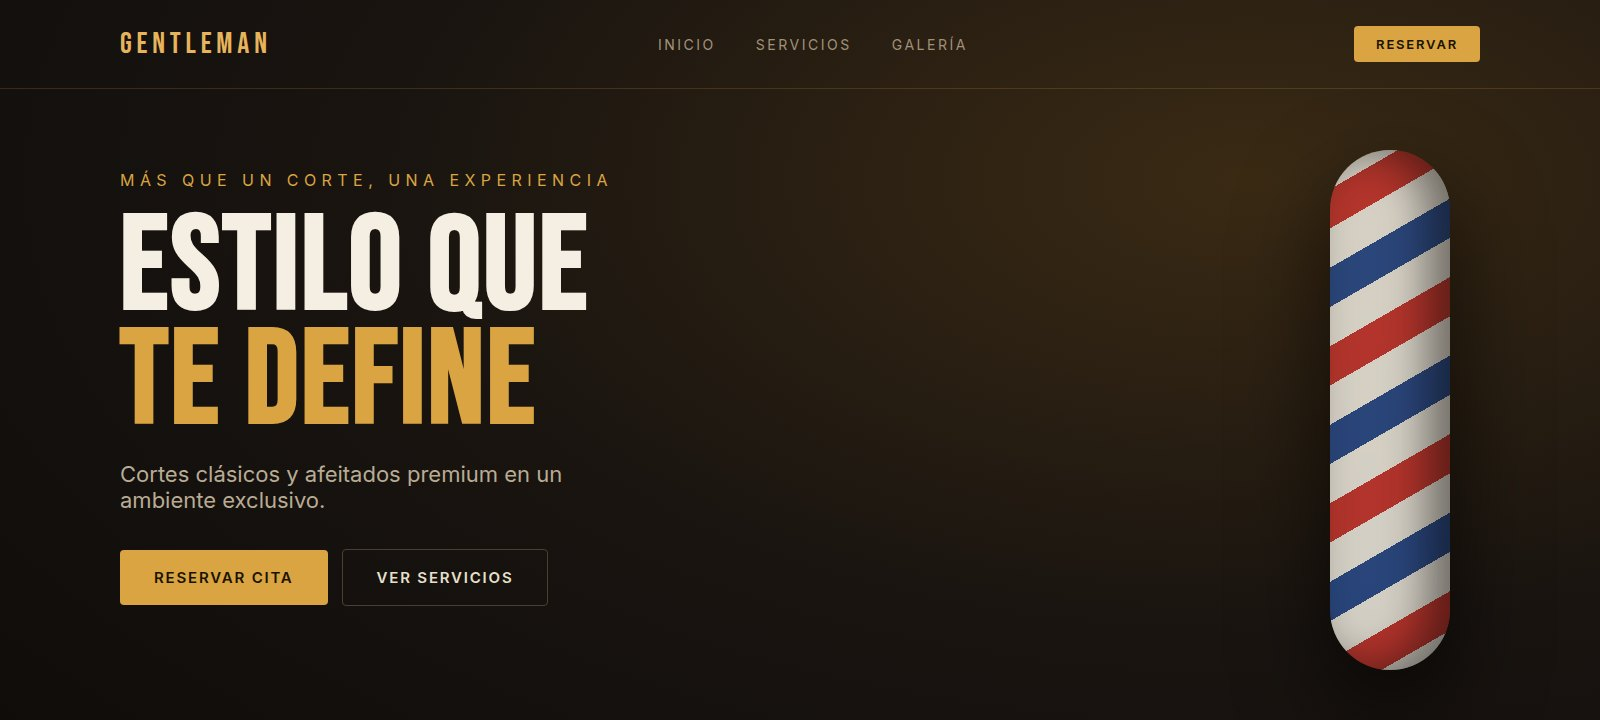
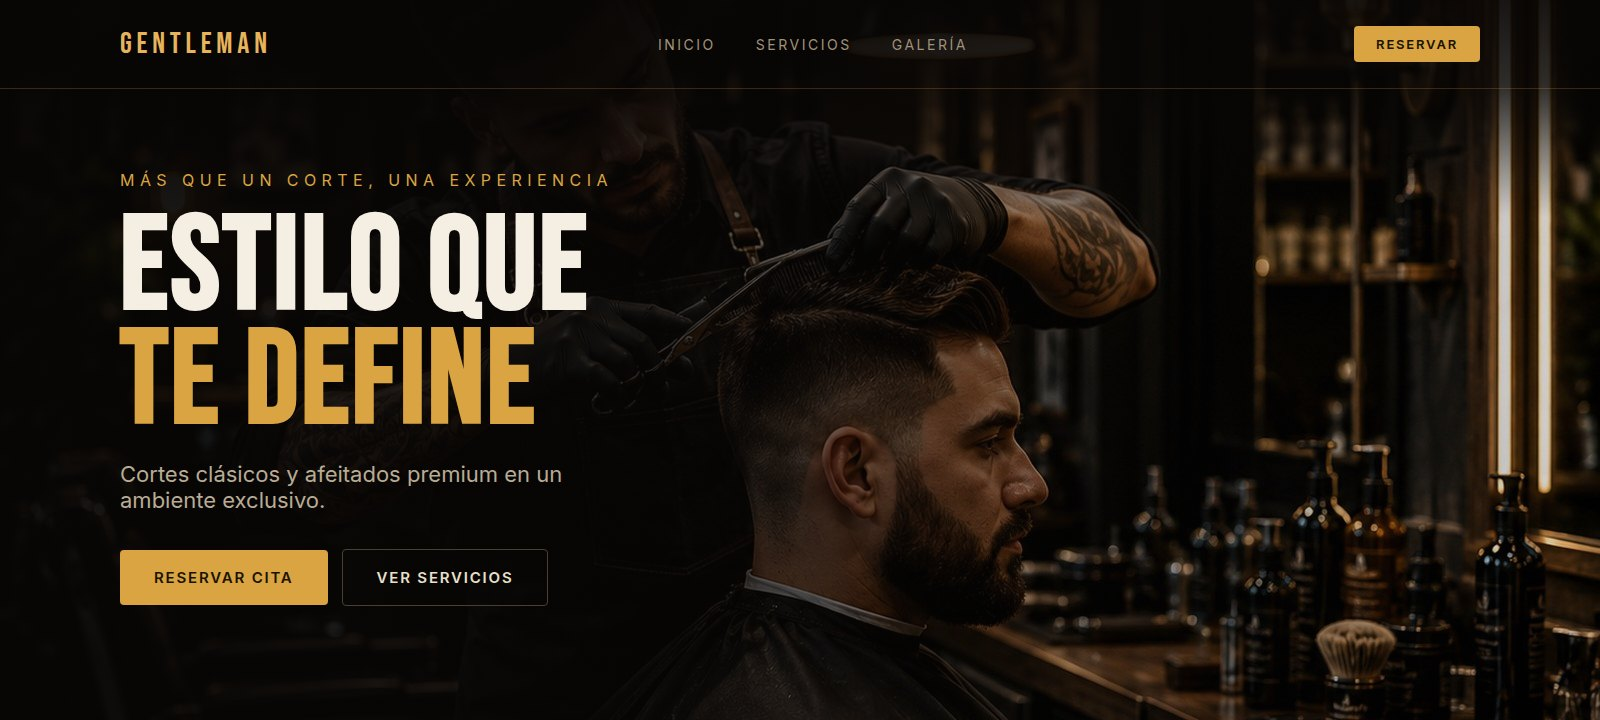
Usa fotografía real en las plantillas de barbería y cafetería
Las fotos que aporta el cliente sustituyen a los elementos dibujados
(el poste de barbero y la taza de café) y pasan a ser el fondo de la
portada, con el titular y los botones encima. Es como se ve una
plantilla real con foto de cabecera, así que la miniatura enseña a la
vez el ambiente del negocio y el diseño que se compra.

- scripts/photos/ guarda los originales ya recortados a la franja de la
  tarjeta; se incrustan como data: URI al generar.
- Velo en dos capas (horizontal para el texto, superior para la barra de
  navegación) calibrado para que ni el titular ni los enlaces pierdan
  contraste sobre la foto.
- La demo navegable de barbería estrena la misma fotografía en su hero,
  para que la vista previa y la miniatura cuenten lo mismo.

Claude-Session: https://claude.ai/code/session_01GH4UBwAk37e4FV2NGANpez

diff --git a/public/demos/barberia/index.html b/public/demos/barberia/index.html
@@ -41,9 +41,17 @@ h1,h2,h3{font-family:'Bebas Neue',sans-serif;letter-spacing:0.02em;font-weight:4
 
 /* hero */
 .bh-hero{
-  padding:90px 0 70px;
-  background:radial-gradient(ellipse at 75% 30%,rgba(217,164,65,0.10),transparent 55%);
+  padding:110px 0 90px;
   position:relative;
+  background:
+    linear-gradient(90deg,rgba(12,10,8,0.95) 0%,rgba(12,10,8,0.88) 38%,rgba(12,10,8,0.45) 66%,rgba(12,10,8,0.15) 100%),
+    linear-gradient(180deg,rgba(12,10,8,0.55) 0%,transparent 22%,rgba(12,10,8,0.9) 100%),
+    url("img/hero.jpg") center 22%/cover no-repeat;
+}
+.bh-hero .container{position:relative;z-index:1;}
+.bh-hero h1{text-shadow:0 4px 24px rgba(0,0,0,0.55);}
+@media(max-width:760px){
+  .bh-hero{background-position:center,center,62% 22%;}
 }
 .bh-hero-tag{font-size:12px;letter-spacing:0.2em;text-transform:uppercase;color:var(--gold);margin-bottom:16px;}
 .bh-hero h1{font-size:clamp(46px,7vw,84px);line-height:0.95;margin-bottom:20px;}
